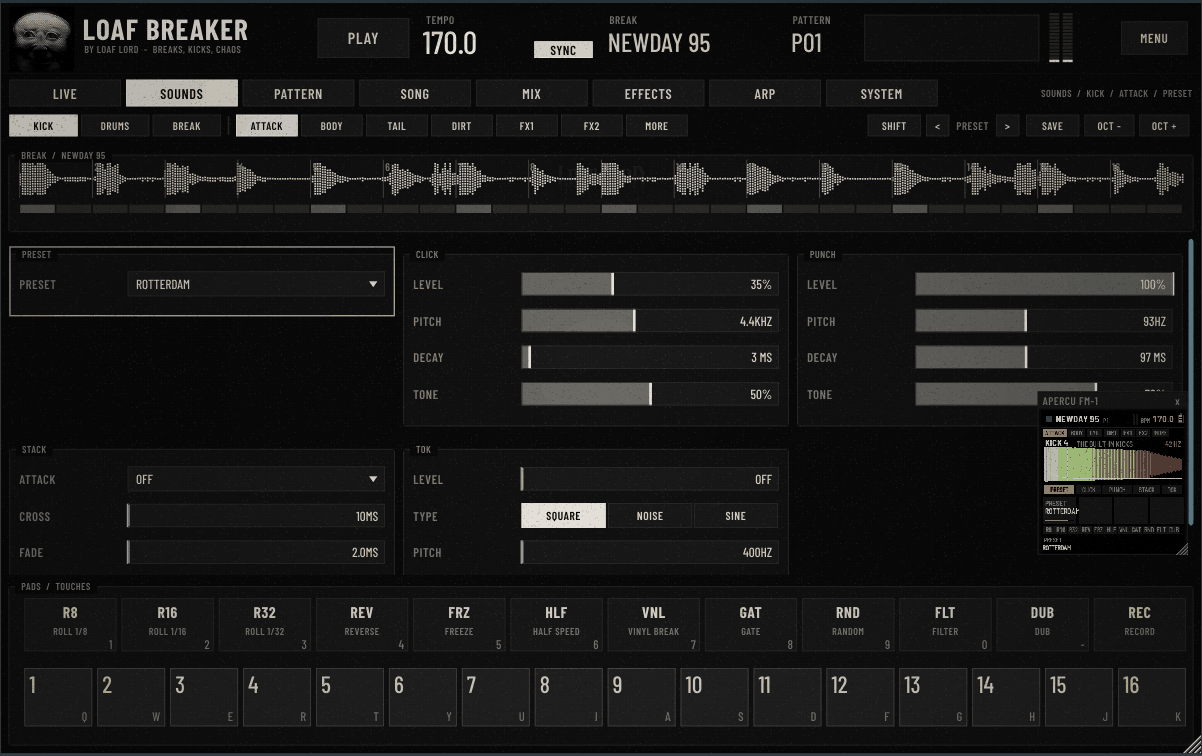
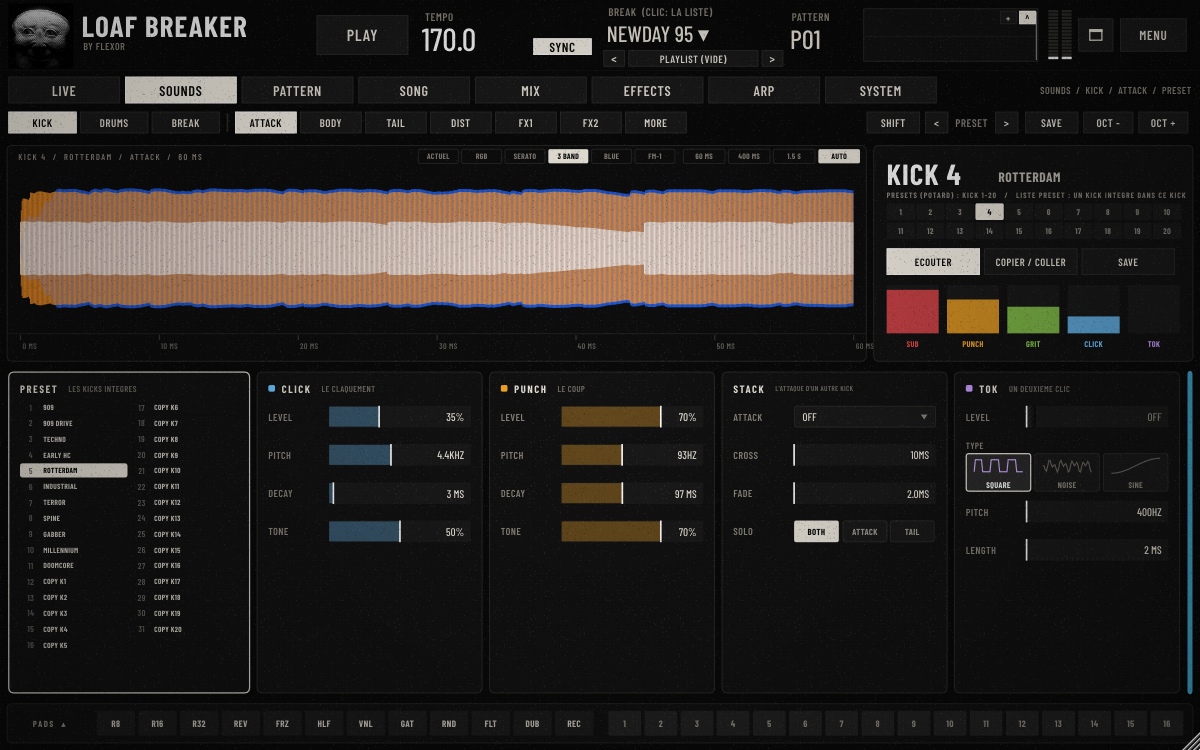
Site: the VST's pictures in its base colours (LOAF LORD), the sequencer as its link preview
Claude-Session: https://claude.ai/code/session_01SezACdoJJxH9cT2JHvLkit

diff --git a/app/site/vst.html b/app/site/vst.html
@@ -10,6 +10,14 @@
 <meta name="viewport" content="width=device-width, initial-scale=1">
 <title>LOAF BREAKER · VST</title>
 <meta name="description" content="LOAF BREAKER as a plugin: the FM-1's firmware running in your DAW (VST3 and Standalone, Windows), with real menus, a full sequencer, 98 breaks in CD quality and a kick library.">
+<!-- (26 Nov 2026, FLEXOR: the VST's picture wherever its link is shared, the sequencer in its base colours, LOAF LORD's black and bone) -->
+<meta property="og:type" content="website">
+<meta property="og:title" content="LOAF BREAKER · VST">
+<meta property="og:description" content="The FM-1's firmware in your DAW (VST3 and Standalone, Windows): real menus, a full sequencer, 98 breaks in CD quality, a kick library.">
+<meta property="og:image" content="https://flexor-r.github.io/loaf-breaker/vst/sequencer.png">
+<meta property="og:url" content="https://flexor-r.github.io/loaf-breaker/vst/">
+<meta name="twitter:card" content="summary_large_image">
+<meta name="twitter:image" content="https://flexor-r.github.io/loaf-breaker/vst/sequencer.png">
 <style>/*SITE_CSS*/
 .vst h1 { margin-top: 8px; font-size: 44px; letter-spacing: .02em; }
 .vst .lede { color: var(--dim); max-width: 760px; margin: 0 0 22px; font-size: 18px; }
@@ -70,7 +78,7 @@ FM-1's limits lifted.</p>
   colour by colour.</p></section>
 </div>
 
-<figure><img src="sequencer.png" alt="The sequencer: the break's steps with their waveforms, the kick, snare, hat and clap rows, the step's settings below" loading="lazy"><figcaption>The sequencer (skin SYNTHWAVE): the break's steps with their slices' waveforms, the drums, the step's settings below.</figcaption></figure>
+<figure><img src="sequencer.png" alt="The sequencer: the break's steps with their waveforms, the kick, snare, hat and clap rows, the step's settings below" loading="lazy"><figcaption>The sequencer, in the VST's own colours (skin LOAF LORD): the break's steps with their slices' waveforms, the drums, the step's settings below.</figcaption></figure>
 <figure><img src="menus.png" alt="The kick's ATTACK: its five parts as cards, each setting a slider, a list or buttons" loading="lazy"><figcaption>A page as menus: the kick's ATTACK, all its parts at once. The FM-1's screen stays in a corner, if you want it.</figcaption></figure>
 <figure><img src="manager.png" alt="The manager: the VST's kicks, patterns and tracks, the kick library, the FM-1's" loading="lazy"><figcaption>The manager: the plugin, your kick library, your FM-1.</figcaption></figure>
 

diff --git a/CLAUDE.md b/CLAUDE.md
@@ -103,7 +103,8 @@ E-*, N-*; milestones M0–M8). Keep the PRD in step when scope changes.
 - The site's VST page (24 Nov 2026, FLEXOR: "faire un onglet VST sur le site, et mettre en avant le côté VST"):
   app/site/vst.html at vst/ (site_style.py page_of, its pictures app/site/vst_img/ copied there), first in the nav
   (`header`, `restyle`), and the front page's first link. Its Download points at the VST's releases (FLEXOR-R/loaf-
-  breaker-vst). Public docs checked against these notes the same day (README, landing, MANUAL, QUICKSTART, controlmap,
+  breaker-vst). Its pictures in the VST's base colours, skin LOAF LORD (26 Nov 2026, FLEXOR), the sequencer its
+  link preview (vst.html's og:image / twitter:image). Public docs checked against these notes the same day (README, landing, MANUAL, QUICKSTART, controlmap,
   breaks/ READMEs, SUBMIT, fmhub.json): keep them in step when a control moves.
 - The split (21 Nov 2026, 0.9.71, FLEXOR, from CHOPPAH 1.5 / 1.5.1, with profikid's go-ahead (taken out a few hours, the branch `split`, until he agreed); his choices: HOME's third tab, EXPERT only, the white keys the split's own): PG_SPLIT (common.c, after PG_HSET; `HOME_PG`), global.c `split_value` / `split_turn` / `draw_split`, main.c `split_key` (a white key latched its half: brk_half) and `break_turn` (ALGORITHM: B with bar 2 latched) until 0.9.73 (FLEXOR: "je reste bloqué sur un seul loop", "aucun verrouillage": both gone, the loop always A + B, ALGORITHM A's break, B K2's; brk.c's half kept, never set); brk.c CHOPPAH's two key lanes (`kl[]`, `lv`, `lane_for`, `fold`, `half_on`; LOAF's DECAY and BREAK TIME's `bsl` kept), brk_break_t.split; app.c `split_on`, `split_b_of`, `bar_decode`, `split_slices`, `split_load` (A's bar, B's repitched, both in pcm_a), each break A its own split since 0.9.72 (FLEXOR: "chaque break a un split indépendant en mémoire", OFF by hand only): `kx2.sp[24]` (SP_TAG2 0x5C, in the KITS' old bytes; bit 7 on, bits 0-4 B + 1, bits 5-6 the bars; `sp_get` / `sp_put` / `split_on_of` / `split_bars_of`; 0.9.71's one split, SP_TAG 0x5B and split / split_b / split_bars, read once into the break it was saved on) and its own keys `kx2.wks[24][16]` (appended; `wk_row`, rows 25..48; wk's row 24 unused since); a break change clears the latched half (break_ask); screen.c `hdr_brk_name` "A+B"; probes split split_at half half_ask layer split_b; engine test test_split; scenario split. RAM 97,900 of 98,304 after it; then (0.9.71, FLEXOR: "comment libérer de la ram", his choice) the dub line 0.55 s (CH_DUB_LEN 24256: 3/8 down to 123 BPM, 0.70 s before), the drums' room (perc.c rm_c / rm_a, brk_math.h `BRK_POOL`) and the kicks' FX sections (`kfxm`) in the pool: RAM 88,012 of 98,304, pool 336,724 of 344,064.
 - CHAOS (24 Nov 2026, 0.9.75, FLEXOR: "un mathcore lite ... pour rajouter du chaos", the break, not the drums): HOME's last tab (PG_CHAOS, after SPLIT; BEGINNER too; HOME passes over it while the TUTORIAL runs: `tut_on`), global.c `chaos_value` / `chaos_turn` / `draw_chaos`; brk.c `brk_auto_roles` (CHOPPAH's MATHCORE Slice Map, `mc_auto_roles`, MPL: credited) into brk_break_t.roles at every break_load (the split's too), `brk_chaos` (packed: amount, MATH N, rolls, seed) applied in on_step after the generator: `ch_swap` (another slice of the same role), reverse from 50, ratchet ×3 snares / ×2 hats, MATH's q (each bar's first N 16ths), seeded by the loop step (`ch_hash`: the same chaos every loop); kx2.ch_tag / chaos[4] (CH_TAG 0xC4, in rsv4), `chaos_push`; RESET ALL off. Probes chaos cmath crolls cseed rkick rsnare rhat; test_chaos; scenario chaos. Image 555,440 B, RAM 90,172.
